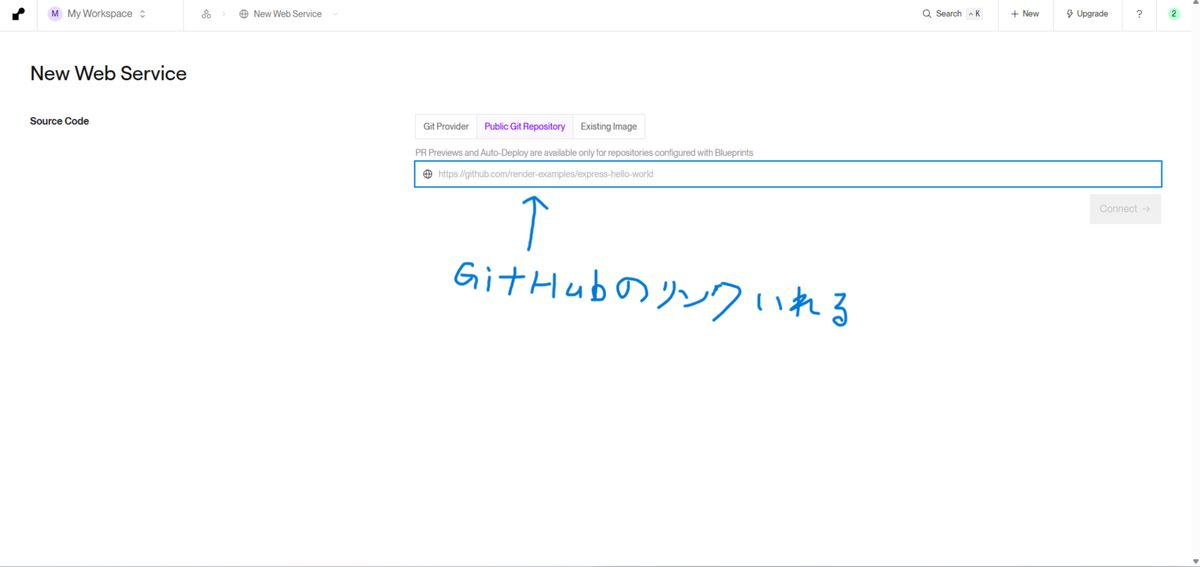
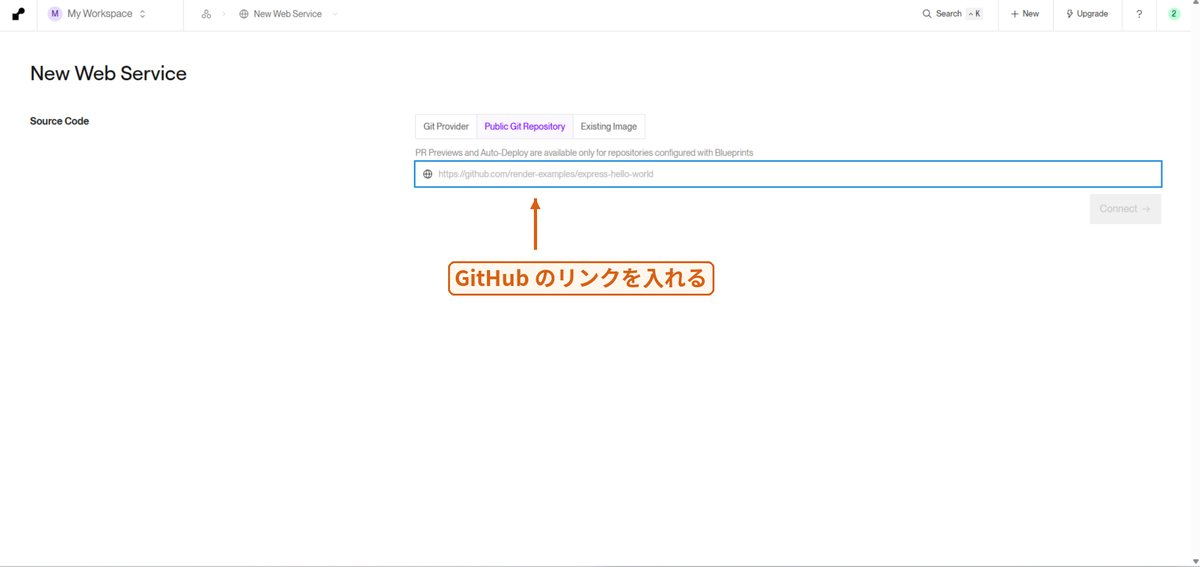
第12回: Renderの画像を清書（手書き注釈を枠・矢印・活字に） (#463)
* 第12回: 学生の手書き注釈を、枠・矢印・活字に清書（全13枚、名前の黒塗りは維持）

* 第12回: 清書の画像のレビュー指摘を反映（画面の文字の崩れ・消し残し・文面を元の注釈に合わせる）

---------

Changed region(s): [[0.37, 0.3298, 0.7092, 0.5697]]

diff --git a/ai-programming-2/week12.html b/ai-programming-2/week12.html
@@ -10,7 +10,7 @@
   <link rel="icon" type="image/svg+xml" href="../favicon.svg">
   <link rel="stylesheet" href="../styles.css?v=26">
   <!-- 第12回（2026-11-26作成。1・2限の学生が、Renderの使い方を画面つきでチャットで提案してくれたのを受けて、先生の指示で次の木曜12限に取り入れた）。親ページの第12回「仕上げ①」の最終調整は残し、Renderで公開してみる部分は任意。学生の画像は、アカウント名・リポジトリ名を黒塗りしてある（先生が本人に使うことを伝える）。ページ・コメント・コミットに、学生の名前や学籍番号、リポジトリ名を書かない。 -->
-  <!-- 公式情報確認: 2026-11-26（render.com/docs を生取得）。/docs/free: 「Render grants 750 Free instance hours to each workspace per calendar month」「Render spins down a Free web service that goes 15 minutes without receiving any inbound traffic.」「This process takes about one minute.」ファイルは再デプロイ・再起動・スピンダウンで失われる、永続ディスク・Shellは使えない、「Render might restart a Free web service at any time.」「Do not use them for production applications.」WebSocketは「HTTP requests and WebSocket messages from existing connections」が止まる条件に数えられ、「new WebSocket connection」で再開する（使えない機能の一覧には入っていない）。/pricing: Hobby「$0/month + compute」、Free $0・512MB、次は $7/月（0.5 CPU）。無料インスタンス作成にカード登録が必要かは書かれていない（未確認）。/docs/web-services: 「Use this method only to deploy a public repository you don't belong to.」「Render does not support auto-deploys or pull request previews for services that use it.」Build例 npm install、Start例 npm start、ポートは PORT（既定10000）、0.0.0.0 にバインド、公開URLは onrender.com のサブドメイン。/docs/deploys: 「Services that use a prebuilt Docker image or a public Git repository URL must be deployed manually.」/docs/github: 「Render automatically redeploys your service with every push to its linked branch」。GitHub Docs（about-github-pages）: 「GitHub Pages is a static site hosting service」（2026-11-26確認）。画面（学生のスクリーンショット。デプロイ中の画面には「Your free instance will spin down with inactivity, which can delay requests by 50 seconds or more.」とも出る）には「PR Previews and Auto-Deploy are available only for repositories configured with Blueprints」とあるが、公式docsに同じ文言は見つからなかった（未確認）。サインイン方法の一覧、年齢条項（render.com/terms は本文が取れなかった）、学校ネットワークでの表示、Build/Start Commandの学生メモ（「同じ文字書く（ランダム）」）の意味は未確認。 -->
+  <!-- 公式情報確認: 2026-11-26（render.com/docs を生取得）。/docs/free: 「Render grants 750 Free instance hours to each workspace per calendar month」「Render spins down a Free web service that goes 15 minutes without receiving any inbound traffic.」「This process takes about one minute.」ファイルは再デプロイ・再起動・スピンダウンで失われる、永続ディスク・Shellは使えない、「Render might restart a Free web service at any time.」「Do not use them for production applications.」WebSocketは「HTTP requests and WebSocket messages from existing connections」が止まる条件に数えられ、「new WebSocket connection」で再開する（使えない機能の一覧には入っていない）。/pricing: Hobby「$0/month + compute」、Free $0・512MB、次は $7/月（0.5 CPU）。無料インスタンス作成にカード登録が必要かは書かれていない（未確認）。/docs/web-services: 「Use this method only to deploy a public repository you don't belong to.」「Render does not support auto-deploys or pull request previews for services that use it.」Build例 npm install、Start例 npm start、ポートは PORT（既定10000）、0.0.0.0 にバインド、公開URLは onrender.com のサブドメイン。/docs/deploys: 「Services that use a prebuilt Docker image or a public Git repository URL must be deployed manually.」/docs/github: 「Render automatically redeploys your service with every push to its linked branch」。GitHub Docs（about-github-pages）: 「GitHub Pages is a static site hosting service」（2026-11-26確認）。画面（学生のスクリーンショット。デプロイ中の画面には「Your free instance will spin down with inactivity, which can delay requests by 50 seconds or more.」とも出る）には「PR Previews and Auto-Deploy are available only for repositories configured with Blueprints」とあるが、公式docsに同じ文言は見つからなかった（未確認）。サインイン方法の一覧、年齢条項（render.com/terms は本文が取れなかった）、学校ネットワークでの表示、Build/Start Commandの学生メモ（「同じ文字を書く（ランダム）」）の意味は未確認。 -->
 </head>
 <body>
   <div class="grain-overlay"></div>
@@ -80,7 +80,7 @@
         <li>（任意）作品を<strong>Renderで公開</strong>し、動いたか・動かない原因を<strong>記録</strong>できる</li>
       </ul>
       <div class="lesson-tip">
-        <strong>この回の手順は、1・2限の学生が、画面つきで教えてくれた内容がもとです。</strong>画面の手書きの文字も、その学生のものです（名前は載せていません）。Renderの画面は変わりやすいので、<strong>自分の画面と見比べながら</strong>進めます。
+        <strong>この回の手順は、1・2限の学生が、画面つきで教えてくれた内容がもとです。</strong>画面のオレンジの枠・矢印・文字は、その学生の手書きの注釈を、清書したものです（名前は載せていません）。Renderの画面は変わりやすいので、<strong>自分の画面と見比べながら</strong>進めます。
       </div>
     </div>
 
@@ -264,19 +264,19 @@
               <figcaption>公式: Public Git Repositoryは「自分が属していない公開リポジトリ」向けで、自動デプロイは使えません。自分たちのリポジトリは Git Provider で（確認日 2026-11-26）。</figcaption>
             </figure>
             <figure style="margin:1.4rem 0">
-              <a href="images/week12-render-01.jpg" target="_blank" rel="noopener"><img src="images/week12-render-01.jpg" alt="Renderのトップページ。大きな見出しの下の「Start for free」のボタンが青い手書きの円で囲まれ、その横に手書きで「サインイン」と書かれている。" style="width:100%;height:auto;border:1px solid #d8d2c4;border-radius:8px" loading="lazy"></a>
-              <figcaption><strong>手順 1　Start for free</strong><br>トップページの <strong>Start for free</strong> を押す（手書き: 「サインイン」）<br><span style="font-size:0.85em">（画像を押すと、大きく開きます）</span></figcaption>
+              <a href="images/week12-render-01.jpg" target="_blank" rel="noopener"><img src="images/week12-render-01.jpg" alt="Renderのトップページ。大きな見出しの下の「Start for free」のボタンがオレンジの枠で囲まれ、その横に注釈で「サインイン」と書かれている。" style="width:100%;height:auto;border:1px solid #d8d2c4;border-radius:8px" loading="lazy"></a>
+              <figcaption><strong>手順 1　Start for free</strong><br>トップページの <strong>Start for free</strong> を押す（注釈: 「サインイン」）<br><span style="font-size:0.85em">（画像を押すと、大きく開きます）</span></figcaption>
             </figure>
             <figure style="margin:1.4rem 0">
-              <a href="images/week12-render-02.jpg" target="_blank" rel="noopener"><img src="images/week12-render-02.jpg" alt="Renderのサインイン画面。「Continue with GitHub」のボタンの右に、手書きで「GitHub以外もある」と書かれている。その下に「Sign in with another method」がある。" style="width:100%;height:auto;border:1px solid #d8d2c4;border-radius:8px" loading="lazy"></a>
-              <figcaption><strong>手順 2　サインイン</strong><br><strong>GitHub以外の方法</strong>もある（手書き）。画面の「Sign in with another method」から選ぶ。使える方法の一覧は、公式で確認できていない（未確認）<br><span style="font-size:0.85em">（画像を押すと、大きく開きます）</span></figcaption>
+              <a href="images/week12-render-02.jpg" target="_blank" rel="noopener"><img src="images/week12-render-02.jpg" alt="Renderのサインイン画面。「Continue with GitHub」のボタンの右に、注釈で「GitHub以外もある」と書かれている。その下に「Sign in with another method」がある。" style="width:100%;height:auto;border:1px solid #d8d2c4;border-radius:8px" loading="lazy"></a>
+              <figcaption><strong>手順 2　サインイン</strong><br><strong>GitHub以外の方法</strong>もある（注釈）。画面の「Sign in with another method」から選ぶ。使える方法の一覧は、公式で確認できていない（未確認）<br><span style="font-size:0.85em">（画像を押すと、大きく開きます）</span></figcaption>
             </figure>
             <figure style="margin:1.4rem 0">
-              <a href="images/week12-render-03.jpg" target="_blank" rel="noopener"><img src="images/week12-render-03.jpg" alt="Renderのダッシュボードの「Overview」画面。右上の「New」のボタンが青い手書きの円で囲まれ、矢印が付いている。" style="width:100%;height:auto;border:1px solid #d8d2c4;border-radius:8px" loading="lazy"></a>
+              <a href="images/week12-render-03.jpg" target="_blank" rel="noopener"><img src="images/week12-render-03.jpg" alt="Renderのダッシュボードの「Overview」画面。右上の「New」のボタンがオレンジの枠で囲まれ、矢印と「New を押す」の文字が付いている。" style="width:100%;height:auto;border:1px solid #d8d2c4;border-radius:8px" loading="lazy"></a>
               <figcaption><strong>手順 3　ダッシュボードの New</strong><br>ダッシュボード右上の <strong>New</strong> を押す<br><span style="font-size:0.85em">（画像を押すと、大きく開きます）</span></figcaption>
             </figure>
             <figure style="margin:1.4rem 0">
-              <a href="images/week12-render-04.jpg" target="_blank" rel="noopener"><img src="images/week12-render-04.jpg" alt="「New」を押したメニュー。「Static Site」「Web Service」などが並び、「Web Service」が青い手書きの円で囲まれ、矢印が付いている。" style="width:100%;height:auto;border:1px solid #d8d2c4;border-radius:8px" loading="lazy"></a>
+              <a href="images/week12-render-04.jpg" target="_blank" rel="noopener"><img src="images/week12-render-04.jpg" alt="「New」を押したメニュー。「Static Site」「Web Service」などが並び、「Web Service」がオレンジの枠で囲まれ、矢印が付いている。" style="width:100%;height:auto;border:1px solid #d8d2c4;border-radius:8px" loading="lazy"></a>
               <figcaption><strong>手順 4　Web Service</strong><br>メニューから <strong>Web Service</strong> を選ぶ<br><span style="font-size:0.85em">（画像を押すと、大きく開きます）</span></figcaption>
             </figure>
             <figure style="margin:1.4rem 0">
@@ -284,36 +284,36 @@
               <figcaption><strong>手順 5　右上にNewが無いとき</strong><br>この画面が出ることもある。<strong>Web Services</strong> のカードの「New Web Service」を押す。以降は同じ（学生のメモ。学生の画面で見た表示で、公式では確認していない）<br><span style="font-size:0.85em">（画像を押すと、大きく開きます）</span></figcaption>
             </figure>
             <figure style="margin:1.4rem 0">
-              <a href="images/week12-render-05.jpg" target="_blank" rel="noopener"><img src="images/week12-render-05.jpg" alt="「New Web Service」の画面。上の「Git Provider」「Public Git Repository」「Existing Image」のタブのうち、「Public Git Repository」が青い手書きの円で囲まれ、矢印が付いている。" style="width:100%;height:auto;border:1px solid #d8d2c4;border-radius:8px" loading="lazy"></a>
+              <a href="images/week12-render-05.jpg" target="_blank" rel="noopener"><img src="images/week12-render-05.jpg" alt="「New Web Service」の画面。上の「Git Provider」「Public Git Repository」「Existing Image」のタブのうち、「Public Git Repository」がオレンジの枠で囲まれ、矢印が付いている。" style="width:100%;height:auto;border:1px solid #d8d2c4;border-radius:8px" loading="lazy"></a>
               <figcaption><strong>手順 6　ソースを選ぶ（2通り）</strong><br>上のタブは<strong>3つ</strong>（Git Provider・Public Git Repository・Existing Image）。この授業で使うのは、次の<strong>2通り</strong>（Existing Image は使わない）。<strong>Git Provider</strong>（GitHub連携）は、<strong>自分たちのリポジトリには、公式が案内している方法</strong>で、一覧から選ぶ。<strong>Public Git Repository</strong> は「自分が属していない公開リポジトリ」向け（公式）で、学生の手順はこちら。以降の手順 7〜9 は、この方法。画像の黒い四角は、リポジトリ名を隠した部分<br><span style="font-size:0.85em">（画像を押すと、大きく開きます）</span></figcaption>
             </figure>
             <figure style="margin:1.4rem 0">
-              <a href="images/week12-render-06.jpg" target="_blank" rel="noopener"><img src="images/week12-render-06.jpg" alt="Public Git Repositoryのタブ。URLを入れる欄があり、その下に手書きで「GitHubのリンクいれる」と書かれ、欄を指す矢印がある。" style="width:100%;height:auto;border:1px solid #d8d2c4;border-radius:8px" loading="lazy"></a>
-              <figcaption><strong>手順 7　URLを入れる欄</strong><br>欄に、<strong>GitHubのリポジトリのURL</strong>を入れる（手書き: 「GitHubのリンクいれる」）<br><span style="font-size:0.85em">（画像を押すと、大きく開きます）</span></figcaption>
+              <a href="images/week12-render-06.jpg" target="_blank" rel="noopener"><img src="images/week12-render-06.jpg" alt="Public Git Repositoryのタブ。URLを入れる欄があり、その下に注釈で「GitHub のリンクを入れる」と書かれ、欄を指す矢印がある。" style="width:100%;height:auto;border:1px solid #d8d2c4;border-radius:8px" loading="lazy"></a>
+              <figcaption><strong>手順 7　URLを入れる欄</strong><br>欄に、<strong>GitHubのリポジトリのURL</strong>を入れる（注釈: 「GitHub のリンクを入れる」）<br><span style="font-size:0.85em">（画像を押すと、大きく開きます）</span></figcaption>
             </figure>
             <figure style="margin:1.4rem 0">
-              <a href="images/week12-render-07.jpg" target="_blank" rel="noopener"><img src="images/week12-render-07.jpg" alt="GitHubの「Code」のボタンを押して開いたメニュー。HTTPSのURLの欄が青い手書きの円で囲まれ、矢印と「これ」の手書きがある。URLは黒い四角で隠してある。" style="width:100%;height:auto;border:1px solid #d8d2c4;border-radius:8px" loading="lazy"></a>
-              <figcaption><strong>手順 8　GitHubでURLをコピー</strong><br>GitHubで <strong>Code → HTTPS</strong> のURLをコピーする（手書き: 「これ」）。名前は隠してある<br><span style="font-size:0.85em">（画像を押すと、大きく開きます）</span></figcaption>
+              <a href="images/week12-render-07.jpg" target="_blank" rel="noopener"><img src="images/week12-render-07.jpg" alt="GitHubの「Code」のボタンを押して開いたメニュー。HTTPSのURLの欄がオレンジの枠で囲まれ、矢印と「これ」の注釈がある。URLは黒い四角で隠してある。" style="width:100%;height:auto;border:1px solid #d8d2c4;border-radius:8px" loading="lazy"></a>
+              <figcaption><strong>手順 8　GitHubでURLをコピー</strong><br>GitHubで <strong>Code → HTTPS</strong> のURLをコピーする（注釈: 「これ」）。名前は隠してある<br><span style="font-size:0.85em">（画像を押すと、大きく開きます）</span></figcaption>
             </figure>
             <figure style="margin:1.4rem 0">
-              <a href="images/week12-render-08.jpg" target="_blank" rel="noopener"><img src="images/week12-render-08.jpg" alt="URLを入れた画面。右の「Connect」のボタンが青い手書きの円で囲まれ、矢印が付いている。URLは黒い四角で隠してある。" style="width:100%;height:auto;border:1px solid #d8d2c4;border-radius:8px" loading="lazy"></a>
+              <a href="images/week12-render-08.jpg" target="_blank" rel="noopener"><img src="images/week12-render-08.jpg" alt="URLを入れた画面。右の「Connect」のボタンがオレンジの枠で囲まれ、矢印が付いている。URLは黒い四角で隠してある。" style="width:100%;height:auto;border:1px solid #d8d2c4;border-radius:8px" loading="lazy"></a>
               <figcaption><strong>手順 9　Connect</strong><br><strong>Connect</strong> を押す。画面には「PR Previews and Auto-Deploy are available only for repositories configured with Blueprints」とある。この方法は<strong>手動デプロイのみ</strong>（公式）<br><span style="font-size:0.85em">（画像を押すと、大きく開きます）</span></figcaption>
             </figure>
             <figure style="margin:1.4rem 0">
-              <a href="images/week12-render-10.jpg" target="_blank" rel="noopener"><img src="images/week12-render-10.jpg" alt="設定の画面（上半分）。Name、Project、Language、Branch、Regionの欄がある。手書きで、Projectは「なし」、Languageは「Node」、Branchは「main」、Regionは「Singapore」と書かれている。リポジトリ名は黒い四角で隠してある。" style="width:100%;height:auto;border:1px solid #d8d2c4;border-radius:8px" loading="lazy"></a>
+              <a href="images/week12-render-10.jpg" target="_blank" rel="noopener"><img src="images/week12-render-10.jpg" alt="設定の画面（上半分）。Name、Project、Language、Branch、Regionの欄がある。注釈で、Projectは「なし」、Languageは「Node」、Branchは「main」、Regionは「Singapore」と書かれている。リポジトリ名は黒い四角で隠してある。" style="width:100%;height:auto;border:1px solid #d8d2c4;border-radius:8px" loading="lazy"></a>
               <figcaption><strong>手順 10　設定（1）</strong><br><strong>Name</strong>、<strong>Project</strong>=なし、<strong>Language</strong>=Node、<strong>Branch</strong>=main、<strong>Region</strong>=Singapore（学生の画面）、<strong>Root Directory</strong>=なし。Regionは自分の画面で確認する<br><span style="font-size:0.85em">（画像を押すと、大きく開きます）</span></figcaption>
             </figure>
             <figure style="margin:1.4rem 0">
-              <a href="images/week12-render-11.jpg" target="_blank" rel="noopener"><img src="images/week12-render-11.jpg" alt="設定の画面（下半分）。Root Directoryは手書きで「なし」。Start Commandの欄に手書きで「同じ文字書く（ランダム）」。Computeの欄では、月0ドルのFreeの行が青い手書きの円で囲まれ、「これえらぶ」と書かれている。初めは月7ドルの行が選ばれている。" style="width:100%;height:auto;border:1px solid #d8d2c4;border-radius:8px" loading="lazy"></a>
+              <a href="images/week12-render-11.jpg" target="_blank" rel="noopener"><img src="images/week12-render-11.jpg" alt="設定の画面（下半分）。Root Directoryは注釈で「なし」。Start Commandの欄に注釈で「同じ文字を書く（ランダム）」。Computeの欄では、月0ドルのFreeの行がオレンジの枠で囲まれ、「これを選ぶ」と書かれている。初めは月7ドルの行が選ばれている。" style="width:100%;height:auto;border:1px solid #d8d2c4;border-radius:8px" loading="lazy"></a>
               <figcaption><strong>手順 11　設定（2）：Compute</strong><br><strong>Compute は、$0 / month の Free を選ぶ</strong>（学生の画面では、初めは <strong>$7 / month</strong> が選ばれていた）。Build Command・Start Command の欄には、<strong>Go用の例</strong>（<code>go build …</code>／<code>./app</code>。入力例とみられる）が入っている。<strong>Nodeの作品なら、自分の作品に合わせて書く</strong>（公式の例: <code>npm install</code>／<code>npm start</code>）。学生のメモの意味は確認中（未確認）<br><span style="font-size:0.85em">（画像を押すと、大きく開きます）</span></figcaption>
             </figure>
             <figure style="margin:1.4rem 0">
-              <a href="images/week12-render-12.jpg" target="_blank" rel="noopener"><img src="images/week12-render-12.jpg" alt="設定の最後。Environment Variablesの欄は、手書きで「なし」。左下の「Deploy web service」のボタンが青い手書きの円で囲まれ、「できたらおす」と書かれている。" style="width:100%;height:auto;border:1px solid #d8d2c4;border-radius:8px" loading="lazy"></a>
-              <figcaption><strong>手順 12　環境変数と Deploy</strong><br><strong>Environment Variables</strong> は、なければ空欄でよい（学生のメモ）。APIキーなどがあれば、コードではなくここに入れる。<strong>Deploy web service</strong> を押す（手書き: 「できたらおす」）。下の金額が <strong>$7</strong> のままなら、押さずに戻る<br><span style="font-size:0.85em">（画像を押すと、大きく開きます）</span></figcaption>
+              <a href="images/week12-render-12.jpg" target="_blank" rel="noopener"><img src="images/week12-render-12.jpg" alt="設定の最後。Environment Variablesの欄は、注釈で「なし」。左下の「Deploy web service」のボタンがオレンジの枠で囲まれ、「できたら押す」と書かれている。" style="width:100%;height:auto;border:1px solid #d8d2c4;border-radius:8px" loading="lazy"></a>
+              <figcaption><strong>手順 12　環境変数と Deploy</strong><br><strong>Environment Variables</strong> は、なければ空欄でよい（学生のメモ）。APIキーなどがあれば、コードではなくここに入れる。<strong>Deploy web service</strong> を押す（注釈: 「できたら押す」）。下の金額が <strong>$7</strong> のままなら、押さずに戻る<br><span style="font-size:0.85em">（画像を押すと、大きく開きます）</span></figcaption>
             </figure>
             <figure style="margin:1.4rem 0">
-              <a href="images/week12-render-13.jpg" target="_blank" rel="noopener"><img src="images/week12-render-13.jpg" alt="デプロイが始まった画面。上に紫色の帯で「Your free instance will spin down with inactivity, which can delay requests by 50 seconds or more.」と出ている。Statusは「Building」。下のログの欄の下に、手書きで「おわったらさいごにURLが出る」と書かれている。名前の部分は黒い四角で隠してある。" style="width:100%;height:auto;border:1px solid #d8d2c4;border-radius:8px" loading="lazy"></a>
-              <figcaption><strong>手順 13　デプロイ中の画面</strong><br><strong>Deploy</strong> を押すと、この画面になる。Statusが <strong>Building</strong> の間は、ログを見て待つ（手書き: 「おわったらさいごにURLが出る」）。上の帯には「Your free instance will spin down with inactivity, which can delay requests by 50 seconds or more.」とある（無料のインスタンスは、使われないと止まり、再開に<strong>50秒以上</strong>かかることがある）<br><span style="font-size:0.85em">（画像を押すと、大きく開きます）</span></figcaption>
+              <a href="images/week12-render-13.jpg" target="_blank" rel="noopener"><img src="images/week12-render-13.jpg" alt="デプロイが始まった画面。上に紫色の帯で「Your free instance will spin down with inactivity, which can delay requests by 50 seconds or more.」と出ている。Statusは「Building」。下のログの欄の下に、注釈で「終わったら、最後にURLが出る」と書かれている。名前の部分は黒い四角で隠してある。" style="width:100%;height:auto;border:1px solid #d8d2c4;border-radius:8px" loading="lazy"></a>
+              <figcaption><strong>手順 13　デプロイ中の画面</strong><br><strong>Deploy</strong> を押すと、この画面になる。Statusが <strong>Building</strong> の間は、ログを見て待つ（注釈: 「終わったら、最後にURLが出る」）。上の帯には「Your free instance will spin down with inactivity, which can delay requests by 50 seconds or more.」とある（無料のインスタンスは、使われないと止まり、再開に<strong>50秒以上</strong>かかることがある）<br><span style="font-size:0.85em">（画像を押すと、大きく開きます）</span></figcaption>
             </figure>
             <div class="lesson-tip">
               <strong>止まる合図:</strong> ①<strong>クレジットカードの登録</strong>や<strong>Upgrade</strong>を求められた ②金額が <strong>$7/月</strong> のまま ③<strong>支払い方法が、すでに登録されている</strong>（Billing の画面で確認。登録済みだと、帯域・ビルド時間の超過分が請求されることがある。未登録だと、請求ではなく止まる。公式） ④公開してよいか迷う。この4つは、<strong>先に進まず、先生を呼びます</strong>。

diff --git a/CLAUDE.md b/CLAUDE.md
@@ -146,7 +146,7 @@ ai-programming-2/       # AI活用プログラミング基礎Ⅱ の各回詳細
   week09.html           #   第9回 進級制作とAIエージェントをつなげよう（2026-11-11作成、2026-11-12に先生の指示で3回作り直し。**現在の形**: 1限前半=①冒頭の参考の話（arXiv 2512.14012「Professional Software Developers Don't Vibe, They Control」。要旨（v2）と本文RQ2を原文で確認。「先に計画し、出力を確かめる」は本文の記述で要旨にはない。v1の要旨が同じかは未確認。就職に役立つかは論文の対象外のため断定しない）→②アンケートをチームで相談しながら書く（質問5つ。フォームの作成とClassroomでの案内は先生側、URLは載せない）→③先生が回答を読み上げる（学生の発表なし）→④先生が困りごとに答える／1限後半〜2限=ワーク（卒業進級制作か個人制作）が中心。先生が席をまわる。「AIを活かす場所の4つの型」「次の一歩のメモ・AIに計画だけ出させる」は、折りたたみの「困ったときの道具（使いたい人が使う）」に変更／2限後半=ワーク＋成果を残す。「3行」という型は廃止。図解6点＋挿絵3点（`images/week09-plan|delegate|check.jpg`。冒頭の話の「計画する・任せる・確かめる」。nano-bananaで生成、文字なし、2026-11-12）＋QR。未確認: 学生の画面のBuild modeにPlanの選択肢があるか。**冒頭の話に使わなかった候補（報道ベース・未確認）**: Collins辞書の2025年の単語、METRの2026-02-24更新、経産省の2040年就業構造推計（AI・ロボット等人材 約340万人不足、PDFは403で取得不可）、Stanford研究（22〜25歳のソフトウェア開発者の雇用が約20%減）。）
   week10.html           #   第10回 進級制作に小さな改善を加える①（2026-11-12作成、ユーザー指示「アンケート結果を共有します」→選択「困りごとの分類をもとに作る」。第9回のアンケート（Googleフォーム、22件）の「今困っていること」を分類した結果（AIへの頼み方6／コードの理解・エラー4／作品づくりの技術4／チーム・進め方3／その他2／特になし3）を、**分類と件数だけ**ページに載せた（個別の回答は載せない。分類のため「今困っていること」等の本文は読んだが、メールアドレスとタイムスタンプの列は読んでいない）。**2026-11-12に先生の指示で「プロンプトエンジニアリングからループエンジニアリングへ」の内容に書き直し**（先生の指示「第10回から、プロンプトよりもループエンジニアリングになっている。第9回で論文から軽く触れた一端を、10回でちゃんと説明する」）。1限前半=①第9回のつづき：プロンプトからループへ（15分。言葉は2026年6月ごろから使われ始めた最近のもので**定義は決まっていない**と明記。出典は解説記事4つ（Roby／ZBrain／AlphaSignal／SmartScope）で本文を照合、一次資料（Steinberger氏のX投稿・Osmani氏の原文）は未確認。「まだ要らない人が多い」という意見も載せ、AIに自動で回させる使い方は授業ではしない）→②アンケートから：1周の頼み方（10分）→③コードの理解＝人が見る場所（10分）→④今日の1周を決める（5分）。ループを回す前に決める4つ（1周の大きさ・止める条件・人が見る場所・周回数。授業用の整理で公式の分類ではない）、周回ログ、最大3周／1限後半〜2限=ワーク（先生が席をまわる。データベース・Git・サーバーなどの個別の困りごとは先生を呼ぶ）／2限後半=ワーク＋コミット・プッシュ。3つの型は授業用の整理で公式の分類ではないと明記。図解14点＋挿絵4枚＋QR。親ページ第10行（html・md）も更新。**2026-11-19に先生の提案で、1限前半①の冒頭に「バイブコーディング→計画して確かめる（この授業では「AI駆動開発」と呼ぶ。定義は決まっていない授業用の呼び方）→ループ」の文脈と図解1点を追加**（時間は①の15分の中。出典はMerriam-Webster。Karpathy氏のX投稿の原文は未確認。**同日、先生の指摘「イラストは？ 文字が多いので図解をもっと」で、挿絵4枚（`images/week10-vibe|loop|read|stop.jpg`。nano-banana、文字なし、暖色のフラット画。week09と同じ`ol.vz-steps`）と図解8点（決める4つ・アンケートの件数・頼む文の型・周回ログ・困ったときの頼り先・止める判断・コミット→プッシュ・一言メモ）を追加し、入れ子の箇条書きと長い箇条書きを図に置き換えた**。「頼む文の型」などは授業用の整理で公式の分類ではない）。**2026-11-19に先生の指摘「小さい文字が詰まって読みにくい。論文の解説図解も」で、1限前半①を小見出し（バイブコーディングとは／第9回の論文を思い出す／プロンプトより、ループ）ごとの短い箇条書きに分け、原文・出典は折りたたみ（`details.vz-more`）へ移し、論文（arXiv 2512.14012。13人観察・99人アンケート・計画して出力を確かめる）の図解1点を追加**）
   week11.html           #   第11回 先輩に聞く：卒業進級制作の最終審査に向けて（2026-11-25作成、先生の指示。1限前半=準備・3年生（システム科）の先輩のトーク約10〜15分・全体の質問タイム、1限後半=先輩が各チームを回り企画書と今の状況を見る、2限前半=Classroom配布のGoogleフォームでアウトプット（先輩に今後してもらえるとありがたいことも聞く。**フォームは先生が作る・ページにURLは載せず質問例だけ**）→アドバイスを今日の作業に変える→チームで卒業進級制作、2限後半=制作＋コミット・プッシュ。図解4点＋挿絵2枚（`images/week11-talk|visit.jpg`、nano-banana、文字なし）＋QR（`qr/week11-page.svg`）。「先輩に見せる3つ」「アドバイスを作業にする流れ」は授業用の整理。親ページの第11回の題を「進級制作に小さな改善を加える②」から差し替えた。**未確認**: 先輩の話の内容・人数・巡回の順番は先生の当日の運営次第、フォームの質問は先生の作成による）
-  week12.html           #   第12回 仕上げ①：最終調整と、Renderで公開してみよう（任意）（2026-11-26作成。**12限の学生が、Renderの使い方を手書き注釈つきのスクリーンショット13枚でチャット提案してくれたのを、先生の指示で次の木曜12限に取り入れた**。親ページの第12回「仕上げ①」の最終調整は残し、Renderで公開してみる部分は任意（Renderチーム／最終調整チームに分ける）。1限前半=GitHub PagesとRenderの違い・無料プランの制限4つ（15分アクセスがないと止まる・月750時間・ファイルが消える・いつでも再起動）・公開前の4つの点検、1限後半〜2限=画像の手順（サインイン→New→Web Service→Public Git Repository→URL→Connect→設定→**Computeを$0のFreeに選び直す（初めは$7/月）**→Deploy）、2限後半=結果のメモ。**学生の手順は Public Git Repository（URLを貼る）で、公式が自分のリポジトリに案内しているのは Git Provider（GitHub連携。既定でpushで自動デプロイ）。Public方式は手動デプロイのみ（公式）**と書き分けた。画像は `images/week12-render-01〜13.jpg`（**アカウント名・リポジトリ名を黒塗り**、全件目視確認。元の画像は git 管理外の `.playwright-mcp/render-chat/`）。公式の確認日は2026-11-26（render.com/docs/free・pricing・web-services・deploys・github）。**未確認（授業前に教員が確認）**: 手順どおり実機でデプロイできるか、Build/Start Commandの学生メモ「同じ文字書く（ランダム）」の意味、無料作成でのカード要否、サインイン方法の一覧と年齢条項、学校ネットワークでの表示。公開前にローカルでの画面確認ができず（サーバー・file://が不可）、公開後に実URLで確認した）
+  week12.html           #   第12回 仕上げ①：最終調整と、Renderで公開してみよう（任意）（2026-11-26作成。**12限の学生が、Renderの使い方を手書き注釈つきのスクリーンショット13枚でチャット提案してくれたのを、先生の指示で次の木曜12限に取り入れた**。親ページの第12回「仕上げ①」の最終調整は残し、Renderで公開してみる部分は任意（Renderチーム／最終調整チームに分ける）。1限前半=GitHub PagesとRenderの違い・無料プランの制限4つ（15分アクセスがないと止まる・月750時間・ファイルが消える・いつでも再起動）・公開前の4つの点検、1限後半〜2限=画像の手順（サインイン→New→Web Service→Public Git Repository→URL→Connect→設定→**Computeを$0のFreeに選び直す（初めは$7/月）**→Deploy）、2限後半=結果のメモ。**学生の手順は Public Git Repository（URLを貼る）で、公式が自分のリポジトリに案内しているのは Git Provider（GitHub連携。既定でpushで自動デプロイ）。Public方式は手動デプロイのみ（公式）**と書き分けた。画像は `images/week12-render-01〜13.jpg`（**アカウント名・リポジトリ名を黒塗り**、全件目視確認。元の画像は git 管理外の `.playwright-mcp/render-chat/`。**2026-11-26に、学生の手書きの注釈を消し、オレンジの枠・矢印・活字の文字に清書した**（青いインクの色を検出して消し、同じ位置に、元の注釈とほぼ同じ文面（漢字に直した）で描き直した。手順3の「New を押す」だけは、文字を足した。作業用のスクリプトはリポジトリ外）。清書後も全13枚を目視確認した）。公式の確認日は2026-11-26（render.com/docs/free・pricing・web-services・deploys・github）。**未確認（授業前に教員が確認）**: 手順どおり実機でデプロイできるか、Build/Start Commandの学生メモ「同じ文字書く（ランダム）」の意味、無料作成でのカード要否、サインイン方法の一覧と年齢条項、学校ネットワークでの表示。公開前にローカルでの画面確認ができず（サーバー・file://が不可）、公開後に実URLで確認した）
 natural-language-dev-2.html   # 自然言語開発Ⅱ（木3・4限／後期。授業内容確定済み、週ページ順次作成中）
 natural-language-dev-2/       # 自然言語開発Ⅱ の各回詳細ページ
   week01.html           #   第1回 前期振り返り＆後期オリエンテーション

diff --git a/docs/handoff/GOAL.md b/docs/handoff/GOAL.md
@@ -175,7 +175,7 @@ updated: 2026-11-25 (セッション30)
 - [x] AI活用プログラミング基礎Ⅱ 第11回を作成（2026-11-25、授業前日、先生の指示）。親ページの第11回の題を「進級制作に小さな改善を加える②」から「先輩に聞く：卒業進級制作の最終審査に向けて」に差し替え（AskUserQuestionで決定、第12回以降は変更なし）。内容: 1限前半=準備＋3年生（システム科）の先輩のトーク10〜15分＋質問タイム、1限後半=先輩が各チームを回る、2限前半=Classroom配布のGoogleフォームでアウトプット→アドバイスを作業に変える→チームで卒業進級制作、2限後半=制作＋コミット・プッシュ。**フォームは先生が作る（ページにURLなし、質問例のみ。AskUserQuestionで決定）**。図解4点＋挿絵2枚（nano-banana。1回目は先輩が高齢の人物に描かれノートPCにロゴも入ったため、「20代前半・ロゴなし」と指定して作り直した）＋QR。week10の「次の回」リンクと次回予告も更新。**未確認**: 先輩の話の内容・巡回の順番は当日の先生の運営次第。授業後に実施結果を反映する。
 - [x] 自然言語開発Ⅱ 第11回を「Devin：クラウドで働く自律型AIエージェントを知る」で作成（2026-11-25、授業前日、ユーザー指示「34限の内容もよろしく」→「Devinについての内容にしてみて欲しい」）。AskUserQuestionで決定: ①**12限で後輩に話す3年生は34限の学生と同じ**②**学生は登録・課金・コード送信をせず、教員の実演と公式画面が本線**（規約で学習利用を断れると書かれているのは有料プランだけのため）③**第12回以降の行は変えず、授業後に先生が決める**（第13回「実装した機能のテスト」・第16回「クラウド機能を統合した成果発表」・到達目標との不一致が残る）④12限との接続は問いの形。公式確認（2026-11-25）: Devin Docs（Ask/Agent、CLI、Desktop、リリースノート）、devin.ai/pricing（Playwright描画。Free $0／Pro $20／Max $200／Teams $80、表の記号が取れず）、Platform Terms of Service 3.3.1（有料はオプトアウト可、curlで原文確認）、Claude Code／Codex／agyの公式。Opusサブエージェントのプランレビューで、規約3.3.1の見落とし・「クラウドかローカルか」の二分法の危険・先輩の話の決めつけ・変更ファイルの漏れを指摘され反映した。図解8点＋挿絵2枚（1枚目は聞き手が子どもに見えたため描き直し）＋QR。**授業前に教員が確認**: FreeでDevin Cloudが使えるか、学校PCでの導入、実演で見せる範囲。**未確認**: agyのデータ扱い、（agyのRemote Agentsは公式確認済み・個人のGoogle AI Pro/Ultraのみ）Windsurf→Devin Desktopの改名の実日付。授業後に結果を反映する。
 - [ ] **12/10（木）12限（AI活用プログラミング基礎Ⅱ 第13回の想定）を、卒業進級制作の最終審査リハーサルにする想定**（2026-11-26、先生の連絡。trigger: 先生の第13回の作成指示）。背景: 来週（12/1〜）から卒業進級制作の最終審査が始まるが、来週に審査を受けるチームはおそらくない。12/10の12限は、直近（翌日の金曜か翌週火曜）に審査を控えるチームのリハーサルにする（状況によって適宜調整）。**今は変更していない**。第13回を作るときは、親ページ（正本）の第13行「発表準備」を先に直す。確認すること: 審査の形式・時間・見る人、リハーサルを受けるチームの決め方、12/3（第12回「仕上げ①」）の扱い、授業が飛ばないか（第13回=12/10は授業が1回も飛ばない前提）。12限の第11回（2026-11-26）は「うまくいった」との報告あり（授業結果の詳細は未反映）。
-- [x] AI活用プログラミング基礎Ⅱ 第12回（12/3 木12限）に「Renderで公開してみる」を作成（2026-11-26、ユーザー指示「12限の学生からRenderの提案があった。画像の使い方を、次の木曜12限の授業で取り入れたい」）。学生のチャット（Gmailのチャット、Playwrightでユーザーがログイン済みのセッション）から、手書き注釈つきスクリーンショット13枚と短いメッセージを取得（`.playwright-mcp/render-chat/`、git管理外）。AskUserQuestionで決定: ①第12回に「公開して見せる」セクション（任意）として入れる、既存の最終調整は残す ②**画像はアカウント名・リポジトリ名を黒塗りし、手書き注釈は活かす（使うことは先生が学生に伝える。サイトに名前は載せない）**。公式確認（2026-11-26）: Free Web Serviceの制限（750時間/月、15分アクセスなしで停止し再開に約1分、ファイルは消える、再起動あり、「Do not use them for production」）、**Public Git Repository方式は自動デプロイ不可（公式が自分のリポジトリに案内しているのはGit Provider）**。計画はplan modeで承認済み。品質ゲートは次の作業（codex review・PRレビュー）。**授業前に先生が確認**: 学生の手順どおりの実機デプロイ、Build/Start Commandの意味（学生に確認）、カード登録の要否、学校ネットワークでの表示。**12/10（木）12限の最終審査リハーサル想定は別項目（上）のまま**。
+- [x] AI活用プログラミング基礎Ⅱ 第12回（12/3 木12限）に「Renderで公開してみる」を作成（2026-11-26、ユーザー指示「12限の学生からRenderの提案があった。画像の使い方を、次の木曜12限の授業で取り入れたい」）。学生のチャット（Gmailのチャット、Playwrightでユーザーがログイン済みのセッション）から、手書き注釈つきスクリーンショット13枚と短いメッセージを取得（`.playwright-mcp/render-chat/`、git管理外）。AskUserQuestionで決定: ①第12回に「公開して見せる」セクション（任意）として入れる、既存の最終調整は残す ②**画像はアカウント名・リポジトリ名を黒塗りし、手書き注釈は活かす（使うことは先生が学生に伝える。サイトに名前は載せない）**。公式確認（2026-11-26）: Free Web Serviceの制限（750時間/月、15分アクセスなしで停止し再開に約1分、ファイルは消える、再起動あり、「Do not use them for production」）、**Public Git Repository方式は自動デプロイ不可（公式が自分のリポジトリに案内しているのはGit Provider）**。計画はplan modeで承認済み。品質ゲートは次の作業（codex review・PRレビュー）。**画像の清書（2026-11-26、先生の依頼）**: 手書きの枠・矢印・文字を、オレンジの枠・矢印・活字に描き直した（13枚。試作3枚を先生が確認して全体に広げた。学生には、清書したことも伝える）。**授業前に先生が確認**: 学生の手順どおりの実機デプロイ、Build/Start Commandの意味（学生に確認）、カード登録の要否、学校ネットワークでの表示。**12/10（木）12限の最終審査リハーサル想定は別項目（上）のまま**。
 
 ## 🔄 中断点（in-flight）
 なし
